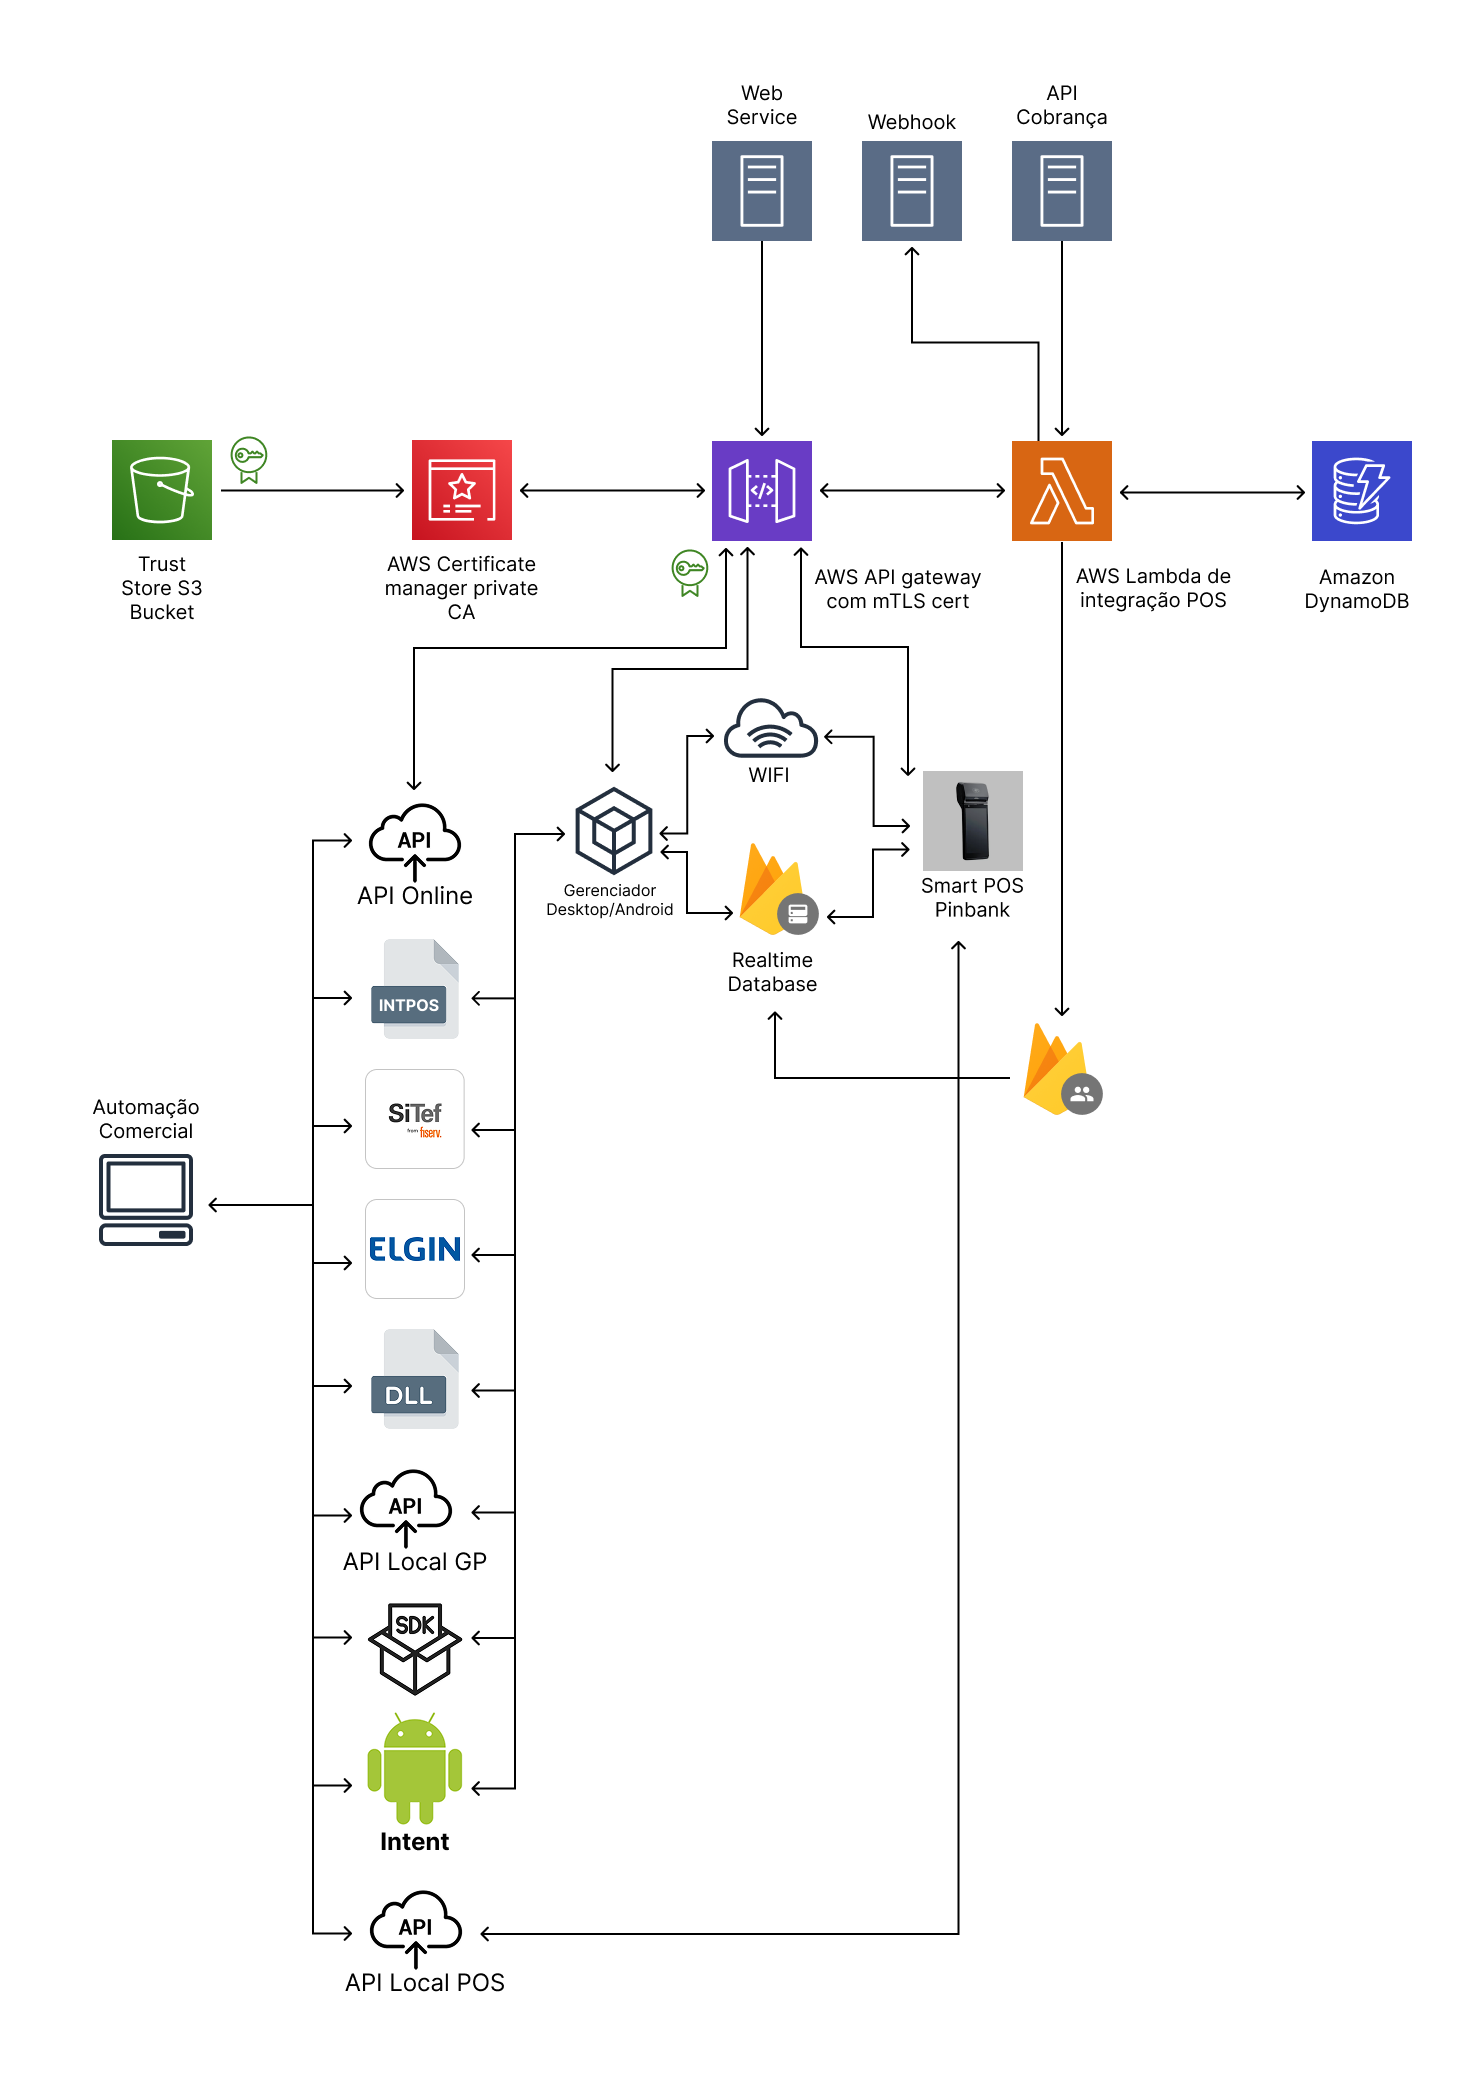
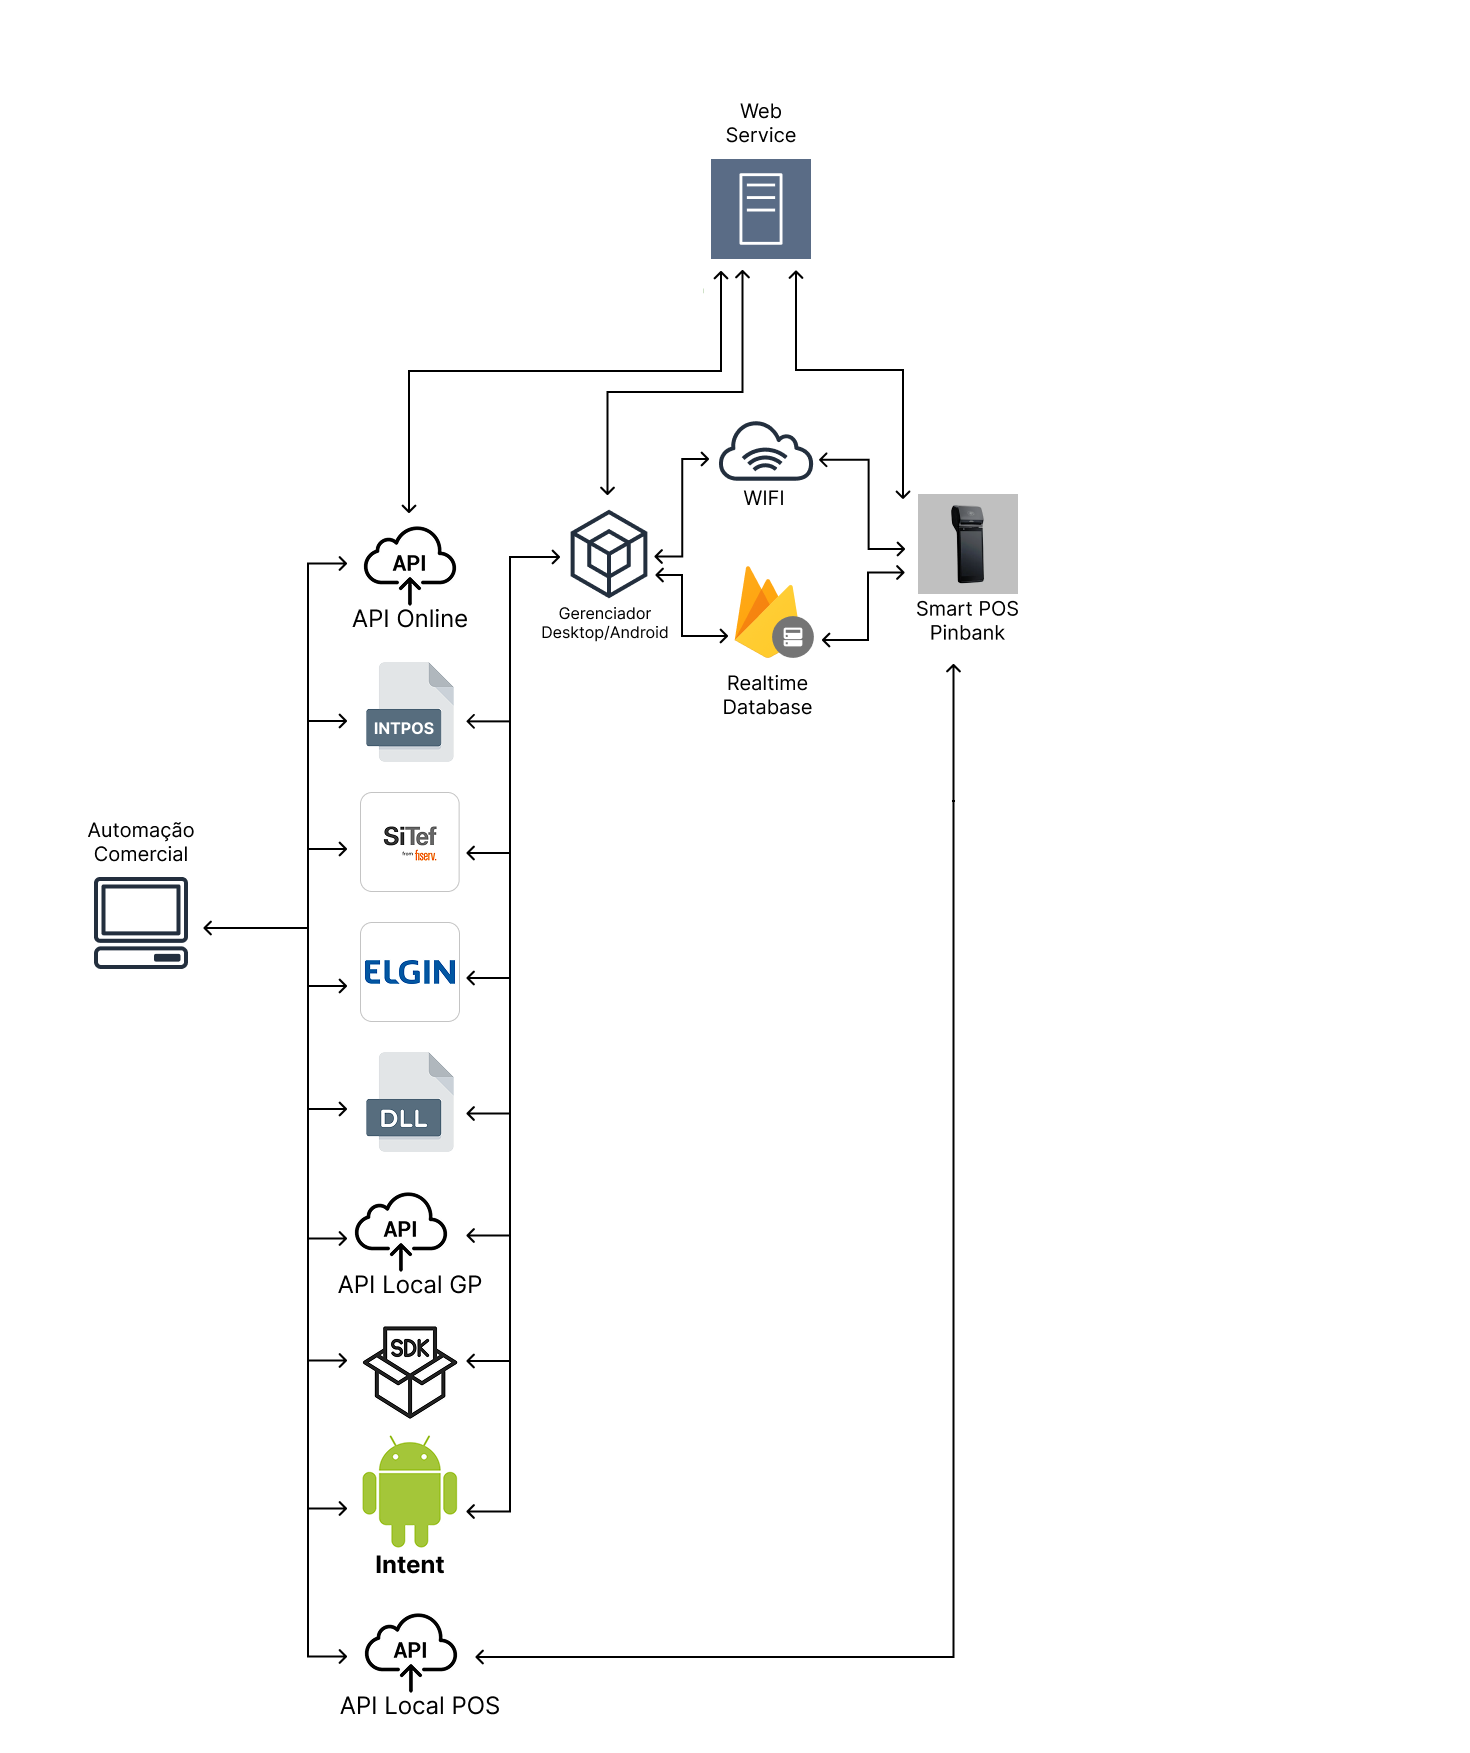
atualiza imagem arquitetura e tabela de compatibilidade

diff --git a/docs/intro.md b/docs/intro.md
@@ -72,8 +72,8 @@ A tabela abaixo mostra os **modelos de terminais SmartPOS compatíveis** com as 
 | **Dock**          | DX8000                                               |
 | **BRB**           | P2                                                   |
 | **C6**            | P3                                                   |
-| **PicPay**        | Andamento...                                         |
-| **Sicoob**        | Andamento...                                         |
+| **PicPay**        | P2                                                   |
+| **Sicoob**        | P2, DX8000,X990                                      |
 | **Safra Pay**     | Andamento...                                         |
 
 ---